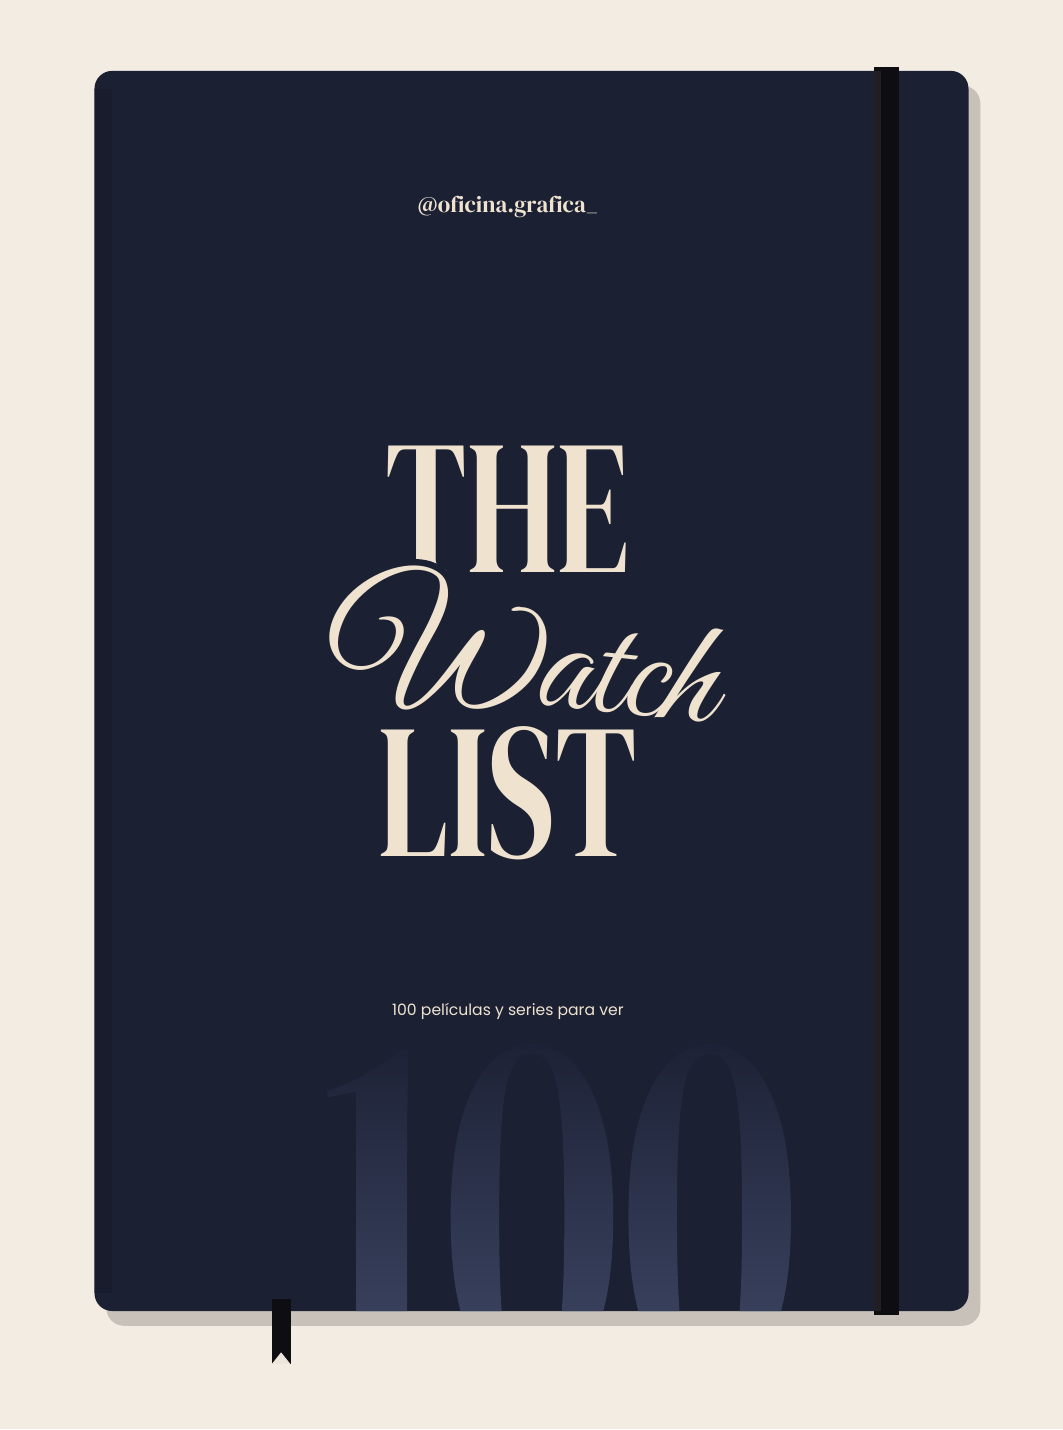
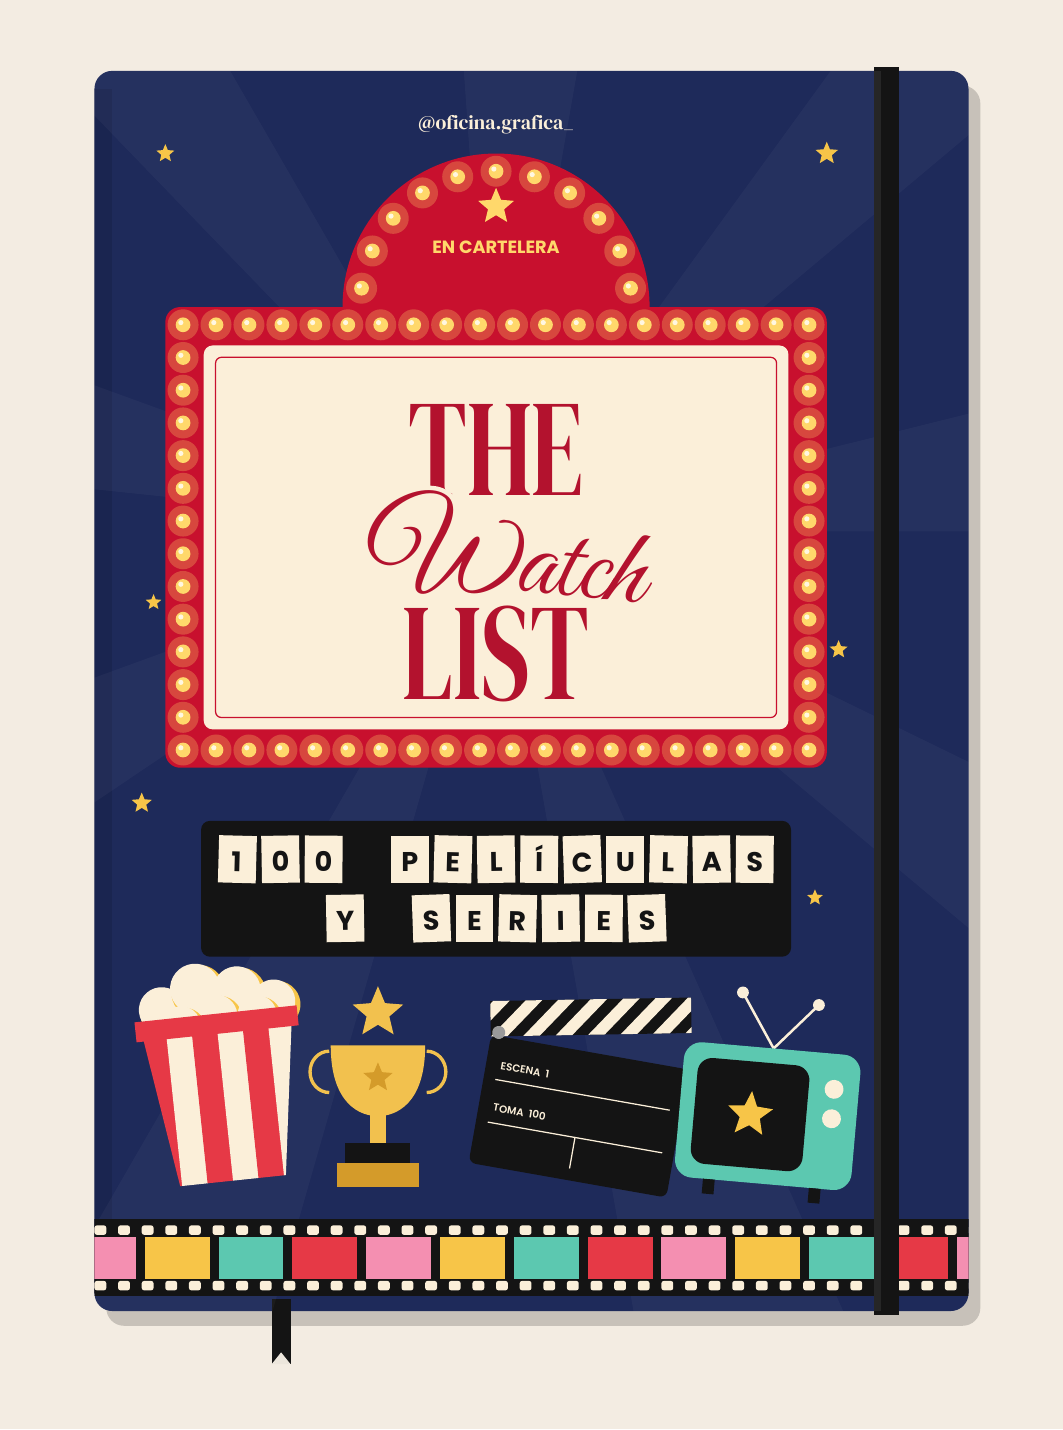
The Watch List: tapa tipo marquesina de cine viejo, con objetos de cine
Claude-Session: https://claude.ai/code/session_01FGxw9aPArw9pn3yxwBbtRR

diff --git a/peliculas/tapa.py b/peliculas/tapa.py
@@ -1,7 +1,10 @@
-"""Tapa de THE WATCH LIST: mismo sistema que The Dating List, en azul noche.
+"""Tapa de THE WATCH LIST: colorida, con objetos de cine y series alrededor del logotipo.
 
 Uso:  python3 peliculas/tapa.py  ->  peliculas/tapa.png (maqueta del cuaderno con elástico y cinta)
+
+Ilustraciones vectoriales propias (sin afiches ni logos de películas, que tienen derechos).
 """
+import math
 import os
 import subprocess
 import sys
@@ -9,32 +12,328 @@ import sys
 AQUI = os.path.dirname(os.path.abspath(__file__))
 sys.path.insert(0, os.path.join(os.path.dirname(AQUI), "citas"))
 
-from portadas_personalizadas import PH, PW, Tapa, cien, cuaderno, elastico, logotipo  # noqa: E402
+from portadas_personalizadas import PH, PW, Tapa, cuaderno, elastico, logotipo  # noqa: E402
 from reportlab.lib.colors import HexColor  # noqa: E402
 from reportlab.lib.units import mm  # noqa: E402
 from reportlab.pdfgen import canvas  # noqa: E402
 
 INSTAGRAM = "@oficina.grafica_"
-# fondo, tinta, sombra, elástico, «100»
-NOCHE = Tapa("#1B2033", "#EFE3D0", "#242A40", "#0E0E12", "#39415E")
+COBALTO = Tapa("#24408E", "#FBEFD9", "#2C4A9C", "#141414", "#2C4A9C")
+ROJO, AMARILLO, ROSA, MENTA = HexColor("#E63946"), HexColor("#F7C548"), HexColor("#F48FB1"), HexColor("#5CC8B0")
+CREMA, NEGRO, CIAN = HexColor("#FBEFD9"), HexColor("#141414"), HexColor("#4FC3F7")
+
+
+def girar(cv, cx, cy, angulo):
+    cv.saveState()
+    cv.translate(cx, cy)
+    cv.rotate(angulo)
+
+
+def estrella(cv, cx, cy, r, color):
+    p = cv.beginPath()
+    for i in range(10):
+        a = math.pi / 2 + i * math.pi / 5
+        rr = r if i % 2 == 0 else r * 0.45
+        (p.moveTo if i == 0 else p.lineTo)(cx + rr * math.cos(a), cy + rr * math.sin(a))
+    p.close()
+    cv.setFillColor(color)
+    cv.drawPath(p, stroke=0, fill=1)
+
+
+def pochoclos(cv, cx, cy):
+    """Balde de pochoclos a rayas, con pochoclos asomando."""
+    girar(cv, cx, cy, 6)
+    w_ab, w_ar, h = 18 * mm, 26 * mm, 28 * mm
+    # pochoclos detrás del borde superior
+    for dx, dy, r in ((-9, 2, 4.2), (-3, 5, 4.6), (4, 4, 4.4), (10, 1.5, 4), (0, 0, 4), (-6, -1, 3.6),
+                      (7, -0.5, 3.6)):
+        cv.setFillColor(AMARILLO)
+        cv.circle(dx * mm + 0.5 * mm, h / 2 + dy * mm - 0.6 * mm, r * mm, stroke=0, fill=1)
+        cv.setFillColor(CREMA)
+        cv.circle(dx * mm, h / 2 + dy * mm, r * mm * 0.92, stroke=0, fill=1)
+    # balde: trapecio con rayas verticales
+    p = cv.beginPath()
+    p.moveTo(-w_ab / 2, -h / 2)
+    p.lineTo(w_ab / 2, -h / 2)
+    p.lineTo(w_ar / 2, h / 2)
+    p.lineTo(-w_ar / 2, h / 2)
+    p.close()
+    cv.saveState()
+    cv.clipPath(p, stroke=0, fill=0)
+    n = 6
+    for i in range(n):
+        cv.setFillColor(ROJO if i % 2 == 0 else CREMA)
+        x0 = -w_ar / 2 + i * w_ar / n
+        cv.rect(x0, -h / 2, w_ar / n + 0.2, h, stroke=0, fill=1)
+    cv.restoreState()
+    cv.setFillColor(ROJO)
+    cv.rect(-w_ar / 2 - 0.8 * mm, h / 2 - 3 * mm, w_ar + 1.6 * mm, 3.4 * mm, stroke=0, fill=1)
+    cv.restoreState()
+
+
+def claqueta(cv, cx, cy):
+    girar(cv, cx, cy, -10)
+    w, h = 34 * mm, 22 * mm
+    cv.setFillColor(NEGRO)
+    cv.roundRect(-w / 2, -h / 2, w, h, 1.2 * mm, stroke=0, fill=1)
+    cv.setStrokeColor(CREMA)
+    cv.setLineWidth(0.6)
+    for k in (1, 2):
+        y = -h / 2 + k * h / 3
+        cv.line(-w / 2 + 2 * mm, y, w / 2 - 2 * mm, y)
+    cv.line(0, -h / 2 + 2 * mm, 0, -h / 2 + h / 3)
+    cv.setFillColor(CREMA)
+    cv.setFont("PopSB", 5)
+    cv.drawString(-w / 2 + 2.5 * mm, h / 2 - 5.5 * mm, "ESCENA  1")
+    cv.drawString(-w / 2 + 2.5 * mm, -h / 2 + h / 3 + 2 * mm, "TOMA  100")
+    # barra superior abierta, con rayas diagonales
+    cv.saveState()
+    cv.translate(-w / 2, h / 2 - 0.3 * mm)  # bisagra pegada al cuerpo
+    cv.rotate(11)
+    bw, bh = w, 6 * mm
+    p = cv.beginPath()
+    p.rect(0, 0, bw, bh)
+    cv.saveState()
+    cv.clipPath(p, stroke=0, fill=0)
+    cv.setFillColor(NEGRO)
+    cv.rect(0, 0, bw, bh, stroke=0, fill=1)
+    cv.setFillColor(CREMA)
+    for i in range(-1, 8):
+        q = cv.beginPath()
+        x0 = i * 5.5 * mm
+        q.moveTo(x0, 0)
+        q.lineTo(x0 + 2.8 * mm, 0)
+        q.lineTo(x0 + 2.8 * mm + bh, bh)
+        q.lineTo(x0 + bh, bh)
+        q.close()
+        cv.drawPath(q, stroke=0, fill=1)
+    cv.restoreState()
+    cv.restoreState()
+    cv.setFillColor(HexColor("#9A9A9A"))
+    cv.circle(-w / 2 + 1.2 * mm, h / 2 + 0.6 * mm, 1.1 * mm, stroke=0, fill=1)  # perno de la bisagra
+    cv.restoreState()
+
+
+def rollo(cv, cx, cy, r, fondo):
+    cv.setFillColor(AMARILLO)
+    cv.circle(cx, cy, r, stroke=0, fill=1)
+    cv.setFillColor(fondo)
+    for i in range(5):
+        a = math.radians(90 + i * 72)
+        cv.circle(cx + r * 0.55 * math.cos(a), cy + r * 0.55 * math.sin(a), r * 0.22, stroke=0, fill=1)
+    cv.circle(cx, cy, r * 0.12, stroke=0, fill=1)
+    cv.setStrokeColor(HexColor("#D9A62E"))
+    cv.setLineWidth(1)
+    cv.circle(cx, cy, r * 0.93, stroke=1, fill=0)
+
+
+def entrada(cv, cx, cy, fondo):
+    girar(cv, cx, cy, 78)
+    w, h = 30 * mm, 13 * mm
+    cv.setFillColor(ROSA)
+    cv.roundRect(-w / 2, -h / 2, w, h, 1.5 * mm, stroke=0, fill=1)
+    cv.setFillColor(fondo)
+    cv.circle(-w / 2, 0, 2.2 * mm, stroke=0, fill=1)
+    cv.circle(w / 2, 0, 2.2 * mm, stroke=0, fill=1)
+    cv.setStrokeColor(CREMA)
+    cv.setLineWidth(0.5)
+    cv.setDash(1, 1.2)
+    cv.line(w / 2 - 8 * mm, -h / 2 + 1 * mm, w / 2 - 8 * mm, h / 2 - 1 * mm)
+    cv.setDash()
+    cv.setFillColor(CREMA)
+    cv.setFont("PopB", 5.5)
+    cv.drawCentredString(-4 * mm, 0.6 * mm, "ADMIT ONE")
+    cv.setFont("PopM", 3.6)
+    cv.drawCentredString(-4 * mm, -2.6 * mm, "Nº 001")
+    cv.restoreState()
+
+
+def anteojos_3d(cv, cx, cy):
+    girar(cv, cx, cy, 8)
+    lw, lh = 11 * mm, 7.5 * mm
+    cv.setFillColor(CREMA)
+    cv.roundRect(-lw - 2.5 * mm, -lh / 2 - 1.2 * mm, 2 * lw + 5 * mm, lh + 2.4 * mm, 2 * mm, stroke=0, fill=1)
+    cv.setFillColor(ROJO)
+    cv.roundRect(-lw - 1.2 * mm, -lh / 2, lw, lh, 1.4 * mm, stroke=0, fill=1)
+    cv.setFillColor(CIAN)
+    cv.roundRect(1.2 * mm, -lh / 2, lw, lh, 1.4 * mm, stroke=0, fill=1)
+    cv.setStrokeColor(CREMA)
+    cv.setLineWidth(2)
+    cv.line(-lw - 2.5 * mm, lh / 2, -lw - 7 * mm, lh / 2 + 2.5 * mm)
+    cv.line(lw + 2.5 * mm, lh / 2, lw + 7 * mm, lh / 2 + 2.5 * mm)
+    cv.restoreState()
+
+
+def tele(cv, cx, cy):
+    """Tele retro, por las series."""
+    girar(cv, cx, cy, -5)
+    w, h = 30 * mm, 23 * mm
+    cv.setStrokeColor(CREMA)
+    cv.setLineWidth(1.2)
+    cv.line(0, h / 2, -6 * mm, h / 2 + 9 * mm)
+    cv.line(0, h / 2, 7 * mm, h / 2 + 8 * mm)
+    cv.setFillColor(CREMA)
+    cv.circle(-6 * mm, h / 2 + 9 * mm, 1 * mm, stroke=0, fill=1)
+    cv.circle(7 * mm, h / 2 + 8 * mm, 1 * mm, stroke=0, fill=1)
+    cv.setFillColor(MENTA)
+    cv.roundRect(-w / 2, -h / 2, w, h, 3 * mm, stroke=0, fill=1)
+    cv.setFillColor(NEGRO)
+    cv.roundRect(-w / 2 + 2.5 * mm, -h / 2 + 2.5 * mm, w - 11 * mm, h - 5 * mm, 2.5 * mm, stroke=0, fill=1)
+    estrella(cv, -w / 2 + 2.5 * mm + (w - 11 * mm) / 2, 0, 4 * mm, AMARILLO)
+    cv.setFillColor(CREMA)
+    cv.circle(w / 2 - 4.2 * mm, h / 2 - 6 * mm, 1.6 * mm, stroke=0, fill=1)
+    cv.circle(w / 2 - 4.2 * mm, h / 2 - 11 * mm, 1.6 * mm, stroke=0, fill=1)
+    cv.setFillColor(NEGRO)
+    cv.rect(-w / 2 + 5 * mm, -h / 2 - 2.5 * mm, 2 * mm, 2.5 * mm, stroke=0, fill=1)
+    cv.rect(w / 2 - 7 * mm, -h / 2 - 2.5 * mm, 2 * mm, 2.5 * mm, stroke=0, fill=1)
+    cv.restoreState()
+
+
+def tira_de_pelicula(cv, x0, y0, largo, angulo):
+    girar(cv, x0, y0, angulo)
+    h = 13 * mm
+    cv.setFillColor(NEGRO)
+    cv.rect(0, -h / 2, largo, h, stroke=0, fill=1)
+    cv.setFillColor(CREMA)
+    paso = 4 * mm
+    for i in range(int(largo / paso)):
+        cv.roundRect(i * paso + 1 * mm, h / 2 - 2.6 * mm, 2 * mm, 1.6 * mm, 0.4 * mm, stroke=0, fill=1)
+        cv.roundRect(i * paso + 1 * mm, -h / 2 + 1 * mm, 2 * mm, 1.6 * mm, 0.4 * mm, stroke=0, fill=1)
+    colores = (ROSA, AMARILLO, MENTA, ROJO)
+    cuadro = 11 * mm
+    for i in range(int(largo / (cuadro + 1.5 * mm))):
+        cv.setFillColor(colores[i % 4])
+        cv.rect(i * (cuadro + 1.5 * mm) + 1 * mm, -3.6 * mm, cuadro, 7.2 * mm, stroke=0, fill=1)
+    cv.restoreState()
+
+
+def trofeo(cv, cx, cy):
+    """Trofeo dorado genérico con una estrella (no la estatuilla del Oscar, que es marca registrada)."""
+    oro, sombra = HexColor("#F2C14E"), HexColor("#D49B2A")
+    cv.setFillColor(sombra)
+    cv.rect(cx - 7 * mm, cy - 16 * mm, 14 * mm, 4 * mm, stroke=0, fill=1)  # base
+    cv.setFillColor(NEGRO)
+    cv.rect(cx - 5.5 * mm, cy - 12 * mm, 11 * mm, 3.5 * mm, stroke=0, fill=1)
+    cv.setFillColor(oro)
+    cv.rect(cx - 1.4 * mm, cy - 8.5 * mm, 2.8 * mm, 5 * mm, stroke=0, fill=1)  # pie
+    p = cv.beginPath()  # copa
+    p.moveTo(cx - 8 * mm, cy + 8 * mm)
+    p.lineTo(cx + 8 * mm, cy + 8 * mm)
+    p.curveTo(cx + 8 * mm, cy - 2 * mm, cx + 3 * mm, cy - 4 * mm, cx, cy - 4 * mm)
+    p.curveTo(cx - 3 * mm, cy - 4 * mm, cx - 8 * mm, cy - 2 * mm, cx - 8 * mm, cy + 8 * mm)
+    p.close()
+    cv.drawPath(p, stroke=0, fill=1)
+    cv.setStrokeColor(oro)
+    cv.setLineWidth(1.6)
+    cv.arc(cx - 11.5 * mm, cy, cx - 5 * mm, cy + 7 * mm, 90, 180)  # asas
+    cv.arc(cx + 5 * mm, cy, cx + 11.5 * mm, cy + 7 * mm, -90, 180)
+    estrella(cv, cx, cy + 13.5 * mm, 4.5 * mm, oro)
+    estrella(cv, cx, cy + 2.5 * mm, 2.6 * mm, sombra)
+
+
+NOCHE = Tapa("#1E2A5A", "#FBEFD9", "#26346B", "#141414", "#26346B")
+CARTEL = Tapa("#FBEFD9", "#B3122E", "#FBEFD9", "#141414", "#FBEFD9")  # tablero crema, letras rojas
+ROJO_CARTEL, FOCO = HexColor("#C8102E"), HexColor("#FFD86B")
+
+
+def foco(cv, cx, cy, r=1.25 * mm):
+    cv.setFillColor(FOCO, alpha=0.28)
+    cv.circle(cx, cy, r * 2.1, stroke=0, fill=1)
+    cv.setFillColor(FOCO, alpha=1)
+    cv.circle(cx, cy, r, stroke=0, fill=1)
+    cv.setFillColor(HexColor("#FFFFFF"), alpha=0.8)
+    cv.circle(cx - r * 0.3, cy + r * 0.3, r * 0.35, stroke=0, fill=1)
+    cv.setFillColor(HexColor("#FFFFFF"), alpha=1)
+
+
+def focos_en_rect(cv, x1, y1, x2, y2, paso=5.6 * mm):
+    for xa, ya, xb, yb in ((x1, y1, x2, y1), (x2, y1, x2, y2), (x2, y2, x1, y2), (x1, y2, x1, y1)):
+        largo = math.hypot(xb - xa, yb - ya)
+        n = max(1, round(largo / paso))
+        for i in range(n):
+            f = i / n
+            foco(cv, xa + (xb - xa) * f, ya + (yb - ya) * f)
+
+
+def letrero(cv, cx, y, filas):
+    """Tablero de letras sueltas, como las marquesinas de los cines viejos."""
+    tw, th, sep = 6.4 * mm, 8 * mm, 0.9 * mm
+    ancho = max(len(f) for f in filas) * (tw + sep) + 5 * mm
+    alto = len(filas) * (th + 2 * mm) + 3 * mm
+    cv.setFillColor(NEGRO)
+    cv.roundRect(cx - ancho / 2, y, ancho, alto, 1.5 * mm, stroke=0, fill=1)
+    for k, fila in enumerate(filas):
+        fy = y + alto - 2.5 * mm - (k + 1) * th - k * 2 * mm
+        x0 = cx - (len(fila) * (tw + sep) - sep) / 2
+        for i, ch in enumerate(fila):
+            if ch == " ":
+                continue
+            girar(cv, x0 + i * (tw + sep) + tw / 2, fy + th / 2, (-1.5, 1, -0.5, 2, 0)[(i + k) % 5])
+            cv.setFillColor(CREMA)
+            cv.rect(-tw / 2, -th / 2, tw, th, stroke=0, fill=1)
+            cv.setFillColor(NEGRO)
+            cv.setFont("PopB", 13)
+            cv.drawCentredString(0, -th / 2 + 1.9 * mm, ch)
+            cv.restoreState()
+
+
+def marquesina(cv, cx, y_base, ancho, alto):
+    x1, x2, y1, y2 = cx - ancho / 2, cx + ancho / 2, y_base, y_base + alto
+    # cresta semicircular con «EN CARTELERA»
+    r = 26 * mm
+    cv.setFillColor(ROJO_CARTEL)
+    cv.wedge(cx - r, y2 - r, cx + r, y2 + r, 0, 180, stroke=0, fill=1)
+    for i in range(11):
+        a = math.radians(8 + i * 16.4)
+        foco(cv, cx + (r - 3 * mm) * math.cos(a), y2 + (r - 3 * mm) * math.sin(a))
+    cv.setFillColor(FOCO)
+    cv.setFont("PopB", 8.5)
+    cv.drawCentredString(cx, y2 + 9 * mm, "EN CARTELERA")
+    estrella(cv, cx, y2 + 17 * mm, 3.2 * mm, FOCO)
+    # marco rojo con focos y tablero crema
+    cv.setFillColor(ROJO_CARTEL)
+    cv.roundRect(x1, y1, ancho, alto, 2.5 * mm, stroke=0, fill=1)
+    focos_en_rect(cv, x1 + 3 * mm, y1 + 3 * mm, x2 - 3 * mm, y2 - 3 * mm)
+    cv.setFillColor(CREMA)
+    cv.roundRect(x1 + 6.5 * mm, y1 + 6.5 * mm, ancho - 13 * mm, alto - 13 * mm, 1.5 * mm, stroke=0, fill=1)
+    cv.setStrokeColor(ROJO_CARTEL)
+    cv.setLineWidth(0.6)
+    cv.roundRect(x1 + 8.5 * mm, y1 + 8.5 * mm, ancho - 17 * mm, alto - 17 * mm, 1 * mm, stroke=1, fill=0)
 
 
 def tapa(cv, x, y, t=NOCHE):
     cuaderno(cv, x, y, t)
+    cx = x + 68 * mm  # centro del área libre a la izquierda del elástico
     cv.saveState()
     p = cv.beginPath()
     p.roundRect(x, y, PW, PH, 3 * mm)
     cv.clipPath(p, stroke=0, fill=0)
-    cien(cv, x + 38 * mm, y - 12 * mm, t)
+    # rayos de luz suaves detrás del cartel
+    for i in range(9):
+        a1, a2 = math.radians(i * 40), math.radians(i * 40 + 14)
+        q = cv.beginPath()
+        q.moveTo(cx, y + 132 * mm)
+        q.lineTo(cx + 220 * mm * math.cos(a1), y + 132 * mm + 220 * mm * math.sin(a1))
+        q.lineTo(cx + 220 * mm * math.cos(a2), y + 132 * mm + 220 * mm * math.sin(a2))
+        q.close()
+        cv.setFillColor(HexColor("#FFFFFF"), alpha=0.035)
+        cv.drawPath(q, stroke=0, fill=1)
+    cv.setFillColor(HexColor("#FFFFFF"), alpha=1)
+    for ex, ey, r in ((12, 196, 1.6), (124, 196, 2), (10, 120, 1.4), (126, 112, 1.6), (8, 86, 1.8),
+                      (122, 70, 1.4)):
+        estrella(cv, x + ex * mm, y + ey * mm, r * mm, AMARILLO)
+    tira_de_pelicula(cv, x - 5 * mm, y + 9 * mm, 170 * mm, 0)
+    marquesina(cv, cx, y + 92 * mm, 112 * mm, 78 * mm)
+    logotipo(cv, cx, y + 128 * mm, CARTEL, escala=0.72, palabra="Watch")
+    letrero(cv, cx, y + 60 * mm, ["100 PELÍCULAS", "Y SERIES"])
+    pochoclos(cv, x + 22 * mm, y + 36 * mm)
+    trofeo(cv, x + 48 * mm, y + 37 * mm)
+    claqueta(cv, x + 82 * mm, y + 33 * mm)
+    tele(cv, x + 114 * mm, y + 33 * mm)
     cv.restoreState()
-    cx = x + PW / 2 - 4 * mm  # centrado en el área libre a la izquierda del elástico
     cv.setFillColor(t.tinta)
-    cv.setFont("DMSerif", 11)
-    cv.drawCentredString(cx, y + PH - 24 * mm, INSTAGRAM)
-    logotipo(cv, cx, y + PH / 2 + 6 * mm, t, palabra="Watch")
-    cv.setFillColor(t.tinta)
-    cv.setFont("PopR", 7.5)
-    cv.drawCentredString(cx, y + 50 * mm, "100 películas y series para ver")
+    cv.setFont("DMSerif", 9.5)
+    cv.drawCentredString(cx, y + PH - 10 * mm, INSTAGRAM)
     elastico(cv, x, y, t)
 
 
